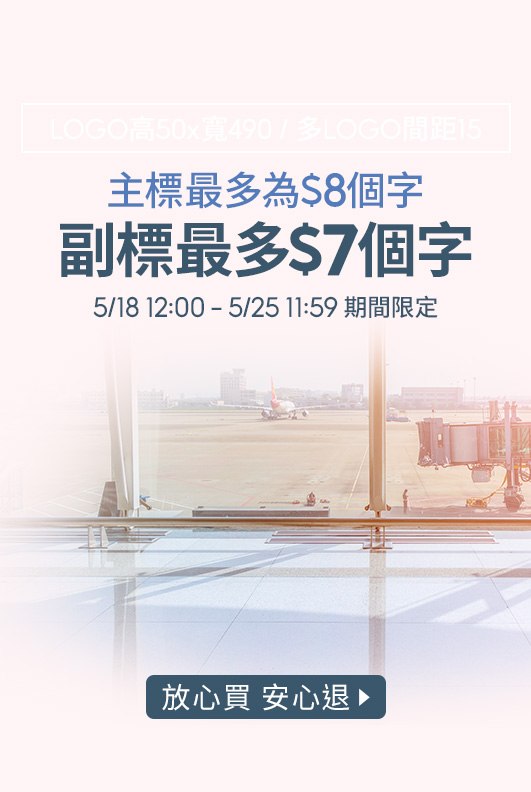
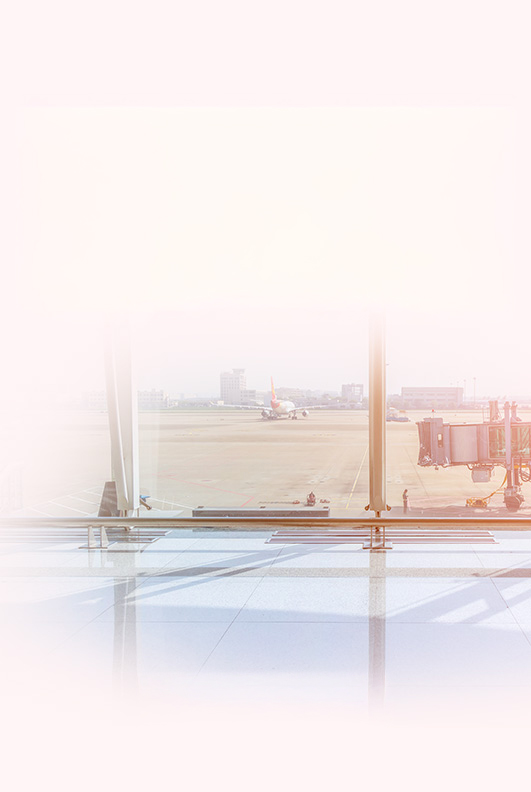
背景搜尋

Changed region(s): [[0.0904, 0.2121, 0.904, 0.4242], [0.2712, 0.8485, 0.7533, 0.9091]]

diff --git a/js/bn-bg-library-plugin.js b/js/bn-bg-library-plugin.js
@@ -30,7 +30,8 @@
   var MANIFEST_URL = CFG.manifestUrl || 'bgimg/index.json';
   var BRAND_URL = CFG.brandUrl || 'bgimg/brand.json';
   var IMG_BASE_URL = CFG.imgBaseUrl || 'bgimg/';
-  var CATEGORIES = CFG.categories || ['EL','Fashion','FMCG','Lifestyle'];
+  var CATEGORY_ONLY_CATEGORIES = ['EL','Fashion','FMCG','Lifestyle'];
+  var CATEGORIES = CFG.categories || CATEGORY_ONLY_CATEGORIES.slice();
   var DEFAULT_IMAGES = CFG.images || [];
 
   var modal, grid, tabsEl, filtersEl, searchEl, statusEl, selectedEl, applyBtn;
@@ -39,8 +40,8 @@
   var imagesLoaded = false;
   var indexData = null;
   var brandData = null;
-  /* 「全部」是虛擬分類：一打開圖庫預設就顯示所有分類的預覽圖，
-     使用者再用上面的分類頁籤或下面的 風格／素材／顏色 篩選縮小範圍。 */
+  /* 「全部」是虛擬分類：完整模式可顯示整份圖庫；只有類別的模式，
+     「全部」只能是 EL／Fashion／FMCG／Lifestyle 四類的合集。 */
   var ALL_CAT = '全部';
   var currentCat = ALL_CAT;
   var searchQuery = '';
@@ -139,8 +140,18 @@
     /* BODA 內 A／B+ 已取得完整圖庫資格時，舊的 JBP hash 不可再把它限回類別模式。 */
     return !(isBodaHosted() && isFullLibraryMode());
   }
+  function isCategoryOnlyLibraryMode(){
+    return isJbpMode() || !isFullLibraryMode();
+  }
+  function isCategoryOnlyCategory(cat){
+    cat = String(cat || '').trim().toLowerCase();
+    return CATEGORY_ONLY_CATEGORIES.some(function(c){ return c.toLowerCase() === cat; });
+  }
+  function isCardAllowedInLibraryMode(img){
+    return !isCategoryOnlyLibraryMode() || !!(img && isCategoryOnlyCategory(img.cat));
+  }
   function activeFilterDefs(){
-    if(isJbpMode() || !isFullLibraryMode()){
+    if(isCategoryOnlyLibraryMode()){
       return FILTER_DEFS.filter(function(def){ return def.key === 'cat'; });
     }
     return FILTER_DEFS;
@@ -154,6 +165,14 @@
         filters.style = ALL_CAT;
         filters.material = ALL_CAT;
         filters.color = ALL_CAT;
+        if(filters.cat !== ALL_CAT && !isCategoryOnlyCategory(filters.cat)) filters.cat = ALL_CAT;
+        /* 從完整模式切回四類模式時，不能留下先前選到的 A／其他分類，
+           避免畫面已經隱藏，卻仍能按「套用選取」套用。 */
+        if(selected && !isCardAllowedInLibraryMode(selected)){
+          selected = null;
+          if(applyBtn) applyBtn.disabled = true;
+          if(selectedEl) selectedEl.textContent = '選預設圖會依版位寬高比自動套用；要用自己的圖，請按右側按鈕。';
+        }
         searchQuery = '';
         if(searchEl) searchEl.value = '';
       }
@@ -459,7 +478,9 @@
     modal.addEventListener('click', function(e){ if(e.target === modal) closeModal(); });
     modal.querySelector('.bn-bglib-upload').addEventListener('click', function(){ closeModal(); openNativeUpload(); });
     modal.querySelector('.bn-bglib-slab').addEventListener('click', function(){ openSlabUpload(); });
-    applyBtn.addEventListener('click', function(){ if(selected) applyPreset(selected); });
+    applyBtn.addEventListener('click', function(){
+      if(selected && isCardAllowedInLibraryMode(selected)) applyPreset(selected);
+    });
     searchEl.addEventListener('input', function(){ searchQuery = searchEl.value || ''; renderGrid(); });
     document.addEventListener('keydown', function(e){ if(e.key === 'Escape') closeModal(); });
     renderTabs();
@@ -474,8 +495,8 @@
 
   /* 風格／素材／顏色／類別 四列篩選。每個 chip 後面的數字是「其他三組篩選」條件下
      會剩幾張，0 張的 chip 變淡但仍可點（點了會看到空清單提示）。
-     「類別」列只列 EL / Fashion / FMCG / Lifestyle，A 不列出來（A 的圖透過「全部」
-     以及上面三組風格／素材／顏色來找）。 */
+     四類模式的「全部」只限 EL / Fashion / FMCG / Lifestyle；A 不列出來，
+     也不能出現在圖片結果或計數中。完整模式才可透過「全部」與標籤找 A 圖。 */
   var CATEGORY_CHIP_HIDE = ['A'];
   function getRules(){
     var base;
@@ -490,7 +511,10 @@
         if(img.color && base.color.indexOf(img.color) === -1) base.color.push(img.color);
       });
     }
-    base.cat = CATEGORIES.filter(function(c){ return CATEGORY_CHIP_HIDE.indexOf(c) === -1; });
+    base.cat = CATEGORIES.filter(function(c){
+      return CATEGORY_CHIP_HIDE.indexOf(c) === -1 &&
+        (!isCategoryOnlyLibraryMode() || isCategoryOnlyCategory(c));
+    });
     return base;
   }
   function matchFilter(img, def, value){
@@ -500,6 +524,9 @@
     return v === value;
   }
   function matchAllFilters(img, except){
+    /* 先限定可見圖庫，再比對各組篩選。「全部」會略過 matchFilter，
+       所以範圍限制必須放在這裡，圖片清單與 chip 數量才不會漏出 A／其他分類。 */
+    if(!isCardAllowedInLibraryMode(img)) return false;
     var defs = activeFilterDefs();
     for(var i = 0; i < defs.length; i++){
       var def = defs[i];
@@ -772,6 +799,7 @@
   }
 
   function selectCard(img){
+    if(!isCardAllowedInLibraryMode(img)) return;
     selected = img;
     if(selectedEl){
       selectedEl.textContent = '已選：' + (img.name || '') + (img.verticalSrc
